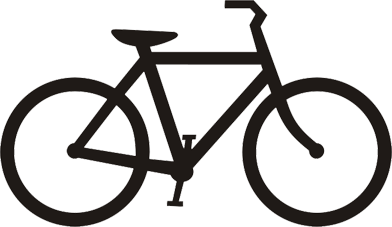
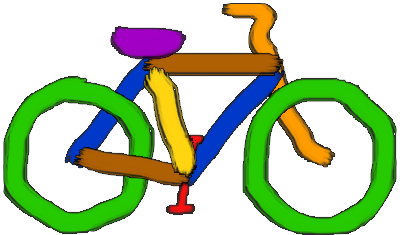
about and contribute pages. last bits of ui touchup.

diff --git a/web/js/bikemap.js b/web/js/bikemap.js
@@ -118,8 +118,6 @@ BikeMap.drawMap = function(data_file, center_lat, center_lng) {
 
         var zoom_level = BikeMap.MAP_OBJECT.getZoom();
 
-        console.log(zoom_level);
-
         if (zoom_level >= 15) {
             BikeMap.showPolylines(BikeMap.MAJOR_PATH_LINES_ZOOMED_IN);
             BikeMap.clearPolylines(BikeMap.MAJOR_PATH_LINES);
@@ -168,7 +166,6 @@ BikeMap.drawPolylinesForIntersections = function(intersections, search_bool) {
         var flip_link = next_intersection + ' | ' + current_intersection;
         // If both are undefined, we assume standard.
         var path_type = BikeMap.CITY_DATA['route_directives'][link_index] || BikeMap.CITY_DATA['route_directives'][flip_link] || 'standard';
-
 
         // Set the path of the line to draw - either from Google Directions API,
         // or as a straight line. Also get the distance between these two points.
@@ -413,7 +410,7 @@ BikeMap.makeGradientColor = function (color1, color2, percent) {
 BikeMap.Navigation = Object();
 BikeMap.Navigation.Map = [
     {'name': '* Home Page', 'link': '/'},
-    {'name': 'California'},
+    {'name': '-----'},
     {'name': 'San Francisco, CA', 'link': '/sf.html'},
     {'name': 'Berkeley, CA', 'link': '/berkeley.html'}
 ];
@@ -479,8 +476,6 @@ BikeMap.Navigation.setupToggles = function() {
         if (status == true) {
             // Get map zoom level
             var zoom_level = BikeMap.MAP_OBJECT.getZoom();
-
-            console.log(zoom_level);
 
             if (zoom_level >= 15) {
                 BikeMap.showPolylines(BikeMap.MAJOR_PATH_LINES_ZOOMED_IN);
@@ -643,12 +638,9 @@ BikeMap.Search.CostFunction = function(start, dest) {
     var start_elevation = BikeMap.CITY_DATA['intersections'][start]['elevation'];
     var dest_elevation = BikeMap.CITY_DATA['intersections'][dest]['elevation'];
 
+    var elevation_diff = dest_elevation - start_elevation;
+    var elevation_diff_zero_cost_downhill = Math.min(elevation_diff, 0);
 
-    if (dest_elevation < start_elevation) {
-        return 0;
-    }
-
-    /* TBD: Calculate grade, factor in a constant for slope that penalizes steep hills */
     var link_name = start + ' | ' + dest;
     if (BikeMap.CITY_DATA['directions'][link_name] != undefined) {
         var run_distance = BikeMap.CITY_DATA['directions'][link_name]['length'];
@@ -660,10 +652,48 @@ BikeMap.Search.CostFunction = function(start, dest) {
         var run_distance = google.maps.geometry.spherical.computeDistanceBetween(start_latlng, dest_latlng);
     }
 
-    return dest_elevation - start_elevation + run_distance;
+    /* To preserve heuristic optimism, add in scalar PENALTIES (> 1) for not using bike paths, big hills, etc. */
+    var grade_penalty = 1.0;
+    if (elevation_diff > 0) {
+        var grade = elevation_diff / run_distance * 100;
+        if (grade > 2) {
+            grade_penalty = 1.10;
+        }
+        if (grade > 6) {
+            grade_penalty = 2.0;
+        }
+        if (grade > 10) {
+            grade_penalty = 3.0;
+        }
+    }
 
+
+    // Check for bike path
+    var link_index = start + ' | ' + dest;
+    var flip_link = dest + ' | ' + start;
+    // If both are undefined, we assume standard.
+    var path_type = BikeMap.CITY_DATA['route_directives'][link_index] || BikeMap.CITY_DATA['route_directives'][flip_link] || 'standard';
+    switch(path_type) {
+        case 'path':
+            var non_bike_path_penalty = 1.0;
+            break;
+        case 'route':
+            var non_bike_path_penalty = 1.05;
+            break;
+        case 'standard':
+            var non_bike_path_penalty = 1.15;
+            break;
+    }
+
+    return non_bike_path_penalty * grade_penalty * Math.sqrt(Math.pow(run_distance, 2) + Math.pow(Math.min(0, elevation_diff_zero_cost_downhill), 2));
 }
 
+/* The heuristic is PYTHAGOREAN DISTANCE:
+    flat distance ^ 2 + min(0, elevation diff) ^ 2 = heuristic ^ 2
+
+   This MUST BE OPTIMISTIC to the cost function - never overestimating.
+   Why 0 on elevation diff? Since downhill has a 0 cost.
+   */
 BikeMap.Search.AStarHeuristic = function(start, goal) {
     var start_coords = BikeMap.CITY_DATA['intersections'][start];
     var goal_coords = BikeMap.CITY_DATA['intersections'][goal];
@@ -673,8 +703,9 @@ BikeMap.Search.AStarHeuristic = function(start, goal) {
 
     var run_distance = google.maps.geometry.spherical.computeDistanceBetween(start_latlng, goal_latlng);
 
+    var elevation_diff = goal_coords['elevation'] - start_coords['elevation'];
 
-    return goal_coords['elevation'] - start_coords['elevation'] + run_distance;
+    return Math.sqrt(Math.pow(run_distance, 2) + Math.pow(Math.min(0, elevation_diff), 2));
 }
 
 /*

diff --git a/web/about.html b/web/about.html
@@ -1,0 +1,98 @@
+<!DOCTYPE html>
+<html>
+  <head>
+    <meta name="viewport" content="initial-scale=1.0, user-scalable=no" />
+    <style type="text/css">
+        html { height: 100% }
+        body { height: 100%; margin: 0; padding: 0;}
+        p { margin: 0; padding: 0 }
+        body * {font-family: Helvetica Neue, sans-serif; font-weight: bold; }
+        a {text-decoration: dotted;}
+        a:link {color:#000000;}      /* unvisited link */
+        a:visited {color:#000000;}  /* visited link */
+        a:hover {color:#0000FF;}  /* mouse over link */
+        a:active {color:#0000FF;}  /* selected link */
+
+        .pheader { text-align: left; text-decoration: underline; padding-bottom: 10px; margin: auto; width: 600px; font-family: Helvetica Neue, sans-serif; font-weight: medium }
+        .ptext { text-align: justify; margin: auto; width: 600px; font-family: Helvetica Neue, sans-serif; font-weight: normal; margin-bottom: 15px; }
+        .indent-bullet { margin-left: 25px; }
+    </style>
+
+  </head>
+
+  <body>
+
+    <div id="picture" style="width: 100%;">
+        <img src="bike.png" style="display: block; margin: auto; padding-top: 30px;">
+    </div>
+
+    <p style="text-align: center; font-family: Helvetica Neue, sans-serif; font-size: 24px; font-weight: bold; padding-top: 10px; padding-bottom: 30px; text-shadow: 1px 1px 0px #eee;">
+    about
+    </p>
+
+
+    <p class="pheader">
+    What is this?
+    </p>
+    <p class="ptext">
+    It's an online bicycle map! Built on top of a familiar Google Map, it will tell you the steepness of hills in an area,
+    where the bike lanes are, or even suggest to you the best path to take to your destination.
+    </p>
+
+    <p class="pheader">
+    How does it work?
+    </p>
+    <p class="ptext">
+    In a nutshell, we create a list of every street intersection in the city, ask Google about the location and
+    elevation of each intersection, and store that information to present back to you.
+    </p>
+
+    <p class="pheader">
+    How does the best path search work?
+    </p>
+    <p class="ptext">
+    We use a well known computer science algorithm to find optimal routes, but the hard part is defining what exactly an
+    optimal route is! <br/><br/>
+
+    This requires us to create a "cost estimate" for each path. We currently take the distance between two points, accounting
+    for elevation difference, and penalize steep hills and use of regular roads instead of bike lanes.<br/><br/>
+
+    We're still tweaking the values for the penalties, but so far the algorithm has passed the litmus test - it tells me
+    <a href="http://en.wikipedia.org/wiki/The_Wiggle">The Wiggle</a> is indeed the best path from the Panhandle to Market Street
+    in San Francisco! :)
+    </p>
+
+    <p class="pheader">
+    How can we get (city X) mapped out?
+    </p>
+    <p class="ptext">
+    One of the primary goals of The Bike Map is to make it easy for people to contribute map data. Check out the
+    <a href="contribute.html">Contribute</a> page for more detailed instructions.
+    </p>
+
+    <p class="pheader">
+    Thanks
+    </p>
+    <p class="ptext">
+    Thank you to the following open source projects, APIs, and resources that helped make this possible!
+
+        <ul class="ptext">
+            <li class="indent-bullet"><a href="https://developers.google.com/maps/">Google Maps</a></li>
+            <li class="indent-bullet"><a href="http://twitter.github.com/bootstrap/">Twitter Bootstrap</a></li>
+            <li class="indent-bullet"><a href="http://jquery.com/">jQuery</a></li>
+            <li class="indent-bullet"><a href="https://github.com/nostalgiaz/bootstrap-toggle-buttons">Bootstrap Toggle Buttons</a></li>
+        </ul>
+    </p>
+
+
+    <br/>
+    <br/>
+
+    <div id="footer" style="width: 100%; height: 80px;">
+        <p style="text-align: center;"><a href="index.html" style="display: inline; margin: 0 0 0 0;">(back to home)</a></p>
+    </div>
+  </body>
+
+</html>
+
+

diff --git a/web/contribute.html b/web/contribute.html
@@ -1,0 +1,73 @@
+<!DOCTYPE html>
+<html>
+  <head>
+    <meta name="viewport" content="initial-scale=1.0, user-scalable=no" />
+    <style type="text/css">
+        html { height: 100% }
+        body { height: 100%; margin: 0; padding: 0;}
+        p { margin: 0; padding: 0 }
+        body * {font-family: Helvetica Neue, sans-serif; font-weight: bold; }
+        a {text-decoration: dotted;}
+        a:link {color:#000000;}      /* unvisited link */
+        a:visited {color:#000000;}  /* visited link */
+        a:hover {color:#0000FF;}  /* mouse over link */
+        a:active {color:#0000FF;}  /* selected link */
+
+        .pheader { text-align: left; text-decoration: underline; padding-bottom: 10px; margin: auto; width: 600px; font-family: Helvetica Neue, sans-serif; font-weight: medium }
+        .ptext { text-align: justify; margin: auto; width: 600px; font-family: Helvetica Neue, sans-serif; font-weight: normal; margin-bottom: 15px; }
+        .indent-bullet { margin-left: 25px; }
+    </style>
+
+  </head>
+
+  <body>
+
+    <div id="picture" style="width: 100%;">
+        <img src="bike.png" style="display: block; margin: auto; padding-top: 30px;">
+    </div>
+
+    <p style="text-align: center; font-family: Helvetica Neue, sans-serif; font-size: 24px; font-weight: bold; padding-top: 10px; padding-bottom: 30px; text-shadow: 1px 1px 0px #eee;">
+    contributing
+    </p>
+
+
+    <p class="pheader">
+    How can I help?
+    </p>
+    <p class="ptext">
+    Thanks for stopping by!<br/><br/>
+
+    I've set up a <strong>public</strong> <a href="https://drive.google.com/?pli=1&authuser=0#folders/0B09G48MuYOBTc3VVTGxRRDk2QUk">Google Docs folder</a>
+    to collaborate on mapping data.
+
+    The most immediate thing I need to map out a city is <strong>lists of all the streets in the city.</strong><br/><br/>
+
+    It helps me greatly if the streets are grouped, somehow, in non-intersecting clumps. For example, in San Francisco, there
+    is a set of Avenues, 1st through 47th. None of these ever intersect, and it helps me to keep them in a group.<br/><br/>
+
+    You can check out the sort of grouping I'm talking about <a href="">here</a>.<br/><br/>
+
+    There is other data involved too - bike lanes, breaks in streets, connecting streets that change names, etc. There are instructions
+    on contributing to these in the Google Docs folder.<br/><br/>
+
+    All with Github accounts are also welcome to post issues, suggest features, and contribute to the open source.
+    </p>
+
+    <p class="pheader">
+    ... oh, and one more thing ...
+    </p>
+    <p class="ptext">
+    If you are good at drawing bikes, I'd love to showcase your art as the picture on the homepage! :) Think along the lines of the
+    Google homepage logo that changes all the time. Let me know <a href="https://docs.google.com/document/d/1NvZQ9axy9imy827PPom5EAAuIc4aApd6vL-pUuNZSho/edit">here.</a>
+    </p>
+
+
+    <div id="footer" style="width: 100%; height: 80px;">
+        <p style="text-align: center;"><a href="index.html" style="display: inline; margin: 0 0 0 0;">(back to home)</a></p>
+    </div>
+  </body>
+
+</html>
+
+
+

diff --git a/web/index.html b/web/index.html
@@ -12,41 +12,33 @@
         a:visited {color:#000000;}  /* visited link */
         a:hover {color:#0000FF;}  /* mouse over link */
         a:active {color:#0000FF;}  /* selected link */
-
-        .column {
-            float: left;
-            width: 200px;
-            height: 100%;
-        }
     </style>
 
   </head>
 
-  <body style="background-color: #FFEED3;">
+  <body>
 
     <div id="picture" style="width: 100%;">
         <img src="bike.png" style="display: block; margin: auto; padding-top: 30px;">
     </div>
 
-    <p style="text-align: center; font-family: Helvetica Neue, sans-serif; font-weight: bold; padding-top: 10px; padding-bottom: 15px;">
+    <p style="text-align: center; font-family: Helvetica Neue, sans-serif; font-size: 24px; font-weight: bold; padding-top: 10px; padding-bottom: 30px; text-shadow: 1px 1px 0px #eee;">
     the bike map
     </p>
     <p style="text-align: center; font-family: Helvetica Neue, sans-serif; font-weight: medium">
 
     </p>
 
-    <div id="links" style="width: 100%; height: 100px; padding: 10px; 0px;">
-
-        <div class="column">
-            <p style="text-decoration: underline;">California</p>
-            <a href="sf.html">San Francisco, CA</a>
-
-            <a href="berkeley.html">Berkeley, CA</a>
-        </div>
+    <div id="links" style="width: 100%; height: 100px; padding: 0px; 0px;">
+        <p style="text-decoration: underline; text-align: center; margin-bottom: 10px;">Cities</p>
+        <p style="text-align: center;">
+            <a href="sf.html" style="display: inline; margin-left: 0px; margin-right: 10px;">San Francisco, CA</a>
+            <a href="berkeley.html" style="display: inline; margin: 0 0 0 0;">Berkeley, CA</a>
+        </p>
     </div>
 
     <div id="footer" style="width: 100%; height: 80px;">
-        <p style="text-align: center;">About &#149; Stuff &#149; Github</p>
+        <p style="text-align: center;"><a href="about.html" style="display: inline; margin: 0 0 0 0;">About</a> &#149; <a href="contribute.html" style="display: inline; margin: 0 0 0 0;">Contribute</a> &#149; Github <a href="https://github.com/vmdx/bike-elevation-map" style="display: inline; margin: 0 0 0 0;">(code)</a> <a href="https://github.com/vmdx/bike-elevation-map-data" style="display: inline; margin: 0 0 0 0;">(data)</a></p>
     </div>
   </body>
 

diff --git a/web/sf.html b/web/sf.html
@@ -26,7 +26,7 @@
     <div id="control-bar">
 
         <div id="title-credits" class="control-column">
-            <p class="control-header">the bike map</p>
+            <p class="control-header" style="text-shadow: 1px 1px 0px #eee;"><a href="/" style="color: black; font-size: 13px;">the bike map</a></p>
 
             <p id="city-tag" class="control-header">
                 San Francisco, CA
@@ -37,7 +37,7 @@
 
 
         <div id="best-path-search" class="control-column">
-        <p class="control-header">Flattest Path Search</p>
+        <p class="control-header">Flattest Path Search (beta)</p>
 
         <form>
             <input id="search-start" type="text" data-provide="typeahead" placeholder="Start" style="padding: 0px 6px; margin-bottom: 5px;" autocomplete="off" tabindex="1">
@@ -67,7 +67,7 @@
 
             <br/>
 
-            <p class="toggle-label" style="width: 65px;">Bike Paths</p>
+            <p class="toggle-label" style="width: 65px;">Bike Routes</p>
             <div id="majors-toggle-button" class="toggle-button">
                 <input type="checkbox" checked="checked">
             </div>
